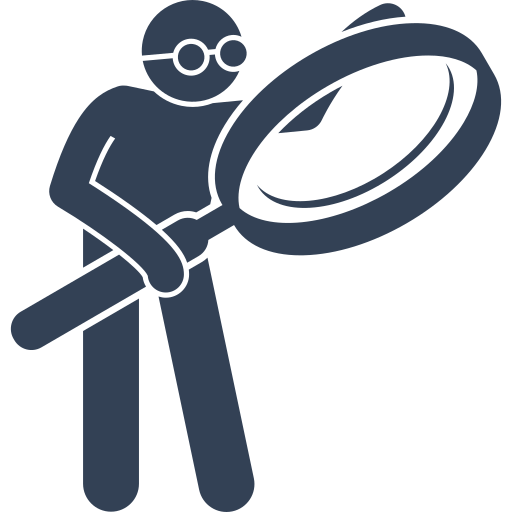
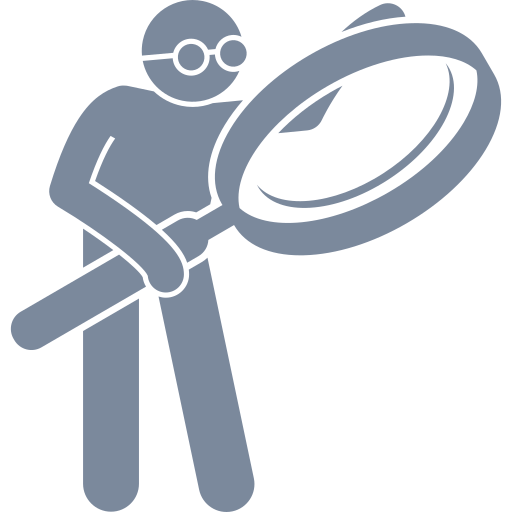
update design dashboard

diff --git a/src/pages/dashboard.js b/src/pages/dashboard.js
@@ -306,8 +306,8 @@ export function renderDashboard() {
                       [data-theme="dark"] .tx-illustration-light { display: none !important; }
                     </style>
                     <div style="display: flex; flex-direction: column; align-items: center; justify-content: center; gap: 0.75rem;">
-                      <img class="tx-illustration-light" src="/assets/transactions-empty-light.svg" alt="No Transactions" style="width: 120px; height: 120px;" />
-                      <img class="tx-illustration-dark" src="/assets/transactions-empty-dark.svg" alt="No Transactions" style="width: 120px; height: 120px;" />
+                      <img class="tx-illustration-light" src="/assets/transactions-empty-light.svg" alt="No Transactions" style="width: 76px; height: 76px; opacity: 0.85;" />
+                      <img class="tx-illustration-dark" src="/assets/transactions-empty-dark.svg" alt="No Transactions" style="width: 76px; height: 76px; opacity: 0.85;" />
                       <p class="text-muted text-xs" style="margin: 0; font-size: 0.85rem;">Belum ada transaksi</p>
                     </div>
                   </td>
@@ -500,8 +500,8 @@ function renderBudgetWidget() {
           [data-theme="light"] .budget-illustration-dark { display: none !important; }
           [data-theme="dark"] .budget-illustration-light { display: none !important; }
         </style>
-        <img class="budget-illustration-light" src="/assets/transactions-empty-light.svg" alt="Belum ada anggaran" style="width: 76px; height: 76px; margin-bottom: 0.65rem; opacity: 0.85;" />
-        <img class="budget-illustration-dark" src="/assets/transactions-empty-dark.svg" alt="Belum ada anggaran" style="width: 76px; height: 76px; margin-bottom: 0.65rem; opacity: 0.85;" />
+        <img class="budget-illustration-light" src="/assets/transactions-empty-light.svg" alt="Belum ada anggaran" style="width: 48px; height: 48px; margin-bottom: 0.5rem; opacity: 0.85;" />
+        <img class="budget-illustration-dark" src="/assets/transactions-empty-dark.svg" alt="Belum ada anggaran" style="width: 48px; height: 48px; margin-bottom: 0.5rem; opacity: 0.85;" />
         <p class="text-sm text-muted text-center" style="margin: 0;">Belum ada anggaran.</p>
       </div>
     `;

diff --git a/src/pages/anggaran.js b/src/pages/anggaran.js
@@ -118,8 +118,8 @@ export function renderAnggaran() {
                   [data-theme="dark"] .budget-table-empty-light { display: none !important; }
                 </style>
                 <div style="display: flex; flex-direction: column; align-items: center; justify-content: center; gap: 0.75rem;">
-                  <img class="budget-table-empty-light" src="/assets/transactions-empty-light.svg" alt="Belum ada anggaran" style="width: 110px; height: 110px; opacity: 0.85;" />
-                  <img class="budget-table-empty-dark" src="/assets/transactions-empty-dark.svg" alt="Belum ada anggaran" style="width: 110px; height: 110px; opacity: 0.85;" />
+                  <img class="budget-table-empty-light" src="/assets/transactions-empty-light.svg" alt="Belum ada anggaran" style="width: 76px; height: 76px; opacity: 0.85;" />
+                  <img class="budget-table-empty-dark" src="/assets/transactions-empty-dark.svg" alt="Belum ada anggaran" style="width: 76px; height: 76px; opacity: 0.85;" />
                   <p class="text-muted" style="margin: 0; font-size: 0.875rem;">Belum ada anggaran nih</p>
                 </div>
               </td></tr>

diff --git a/src/pages/transaksi.js b/src/pages/transaksi.js
@@ -669,8 +669,8 @@ function renderTableBody(container) {
           [data-theme="dark"] .tx-illustration-light { display: none !important; }
         </style>
         <div style="display: flex; flex-direction: column; align-items: center; justify-content: center; gap: 1rem;">
-          <img class="tx-illustration-light" src="/assets/transactions-empty-light.svg" alt="No Transactions" style="width: 140px; height: 140px;" />
-          <img class="tx-illustration-dark" src="/assets/transactions-empty-dark.svg" alt="No Transactions" style="width: 140px; height: 140px;" />
+          <img class="tx-illustration-light" src="/assets/transactions-empty-light.svg" alt="No Transactions" style="width: 80px; height: 80px; opacity: 0.85;" />
+          <img class="tx-illustration-dark" src="/assets/transactions-empty-dark.svg" alt="No Transactions" style="width: 80px; height: 80px; opacity: 0.85;" />
           <p class="text-muted text-xs" style="margin: 0; font-size: 0.85rem;">Belum ada transaksi nih</p>
         </div>
       </td>

diff --git a/src/css/pages/saldo.css b/src/css/pages/saldo.css
@@ -77,7 +77,6 @@
 
 /* --- SALDO CARD CONTENT & LAYOUT --- */
 .saldo-card-item {
-  border-radius: var(--radius-md, 12px) !important;
   background-color: var(--card-bg, #ffffff);
   border: 1px solid var(--border);
   padding: 1rem 1.15rem;
